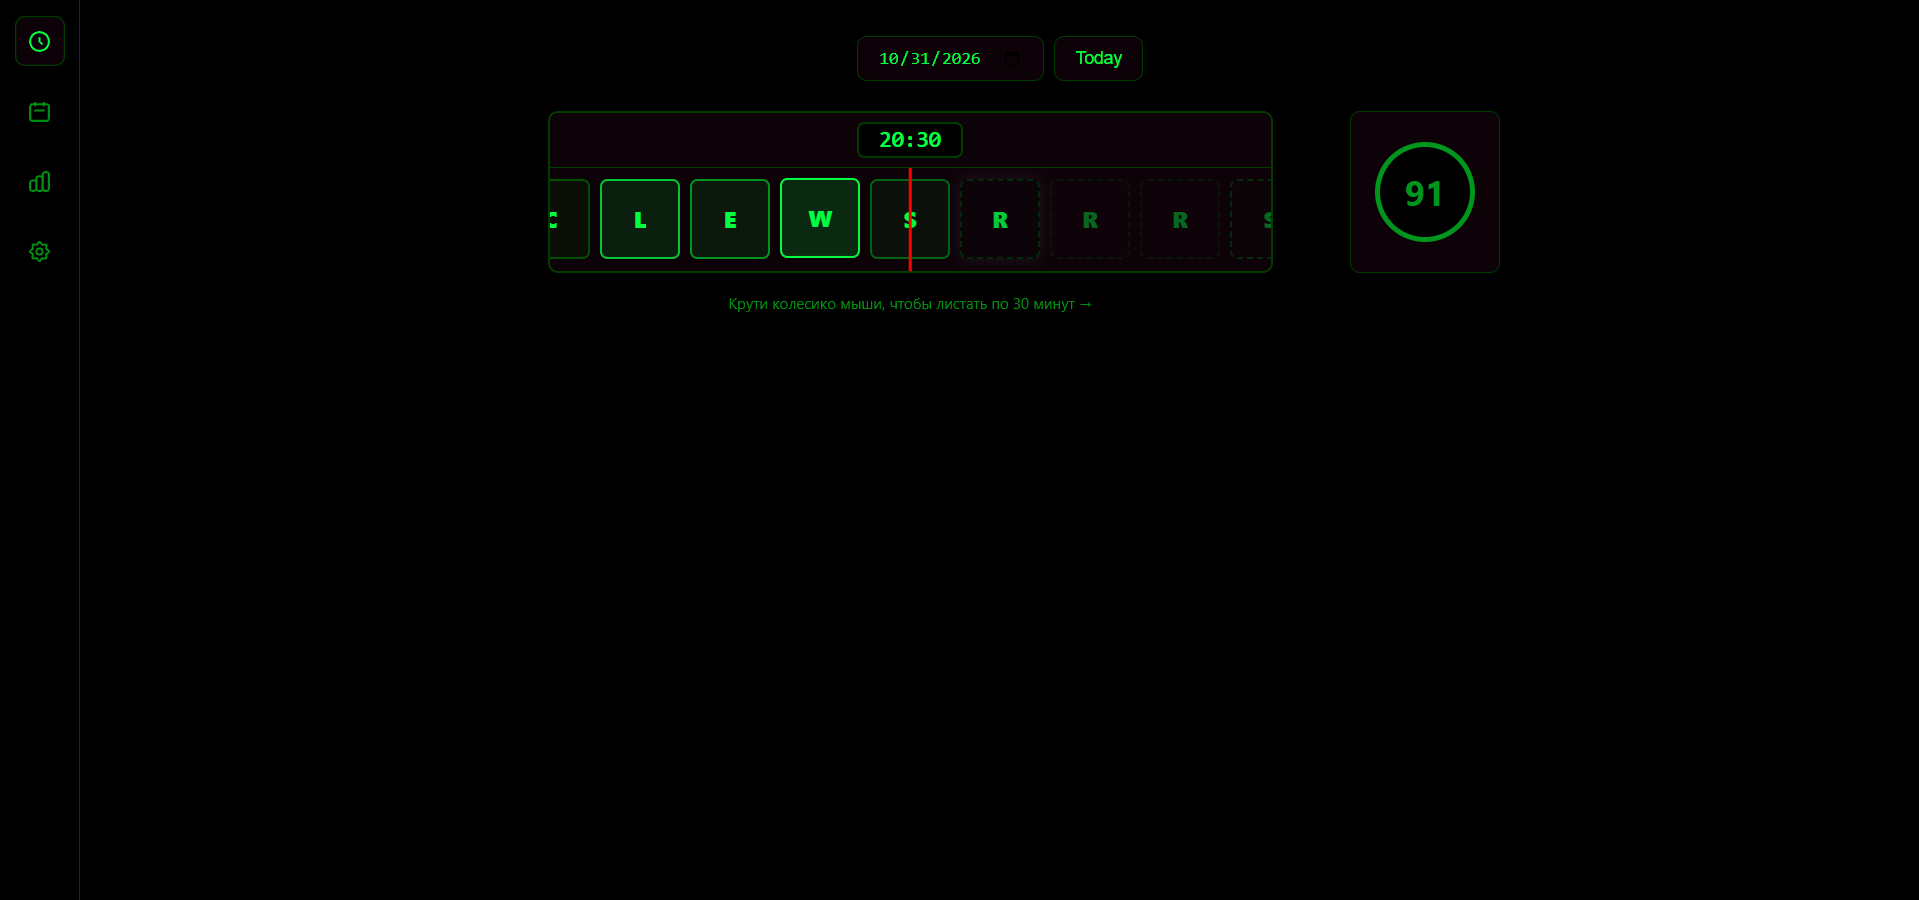
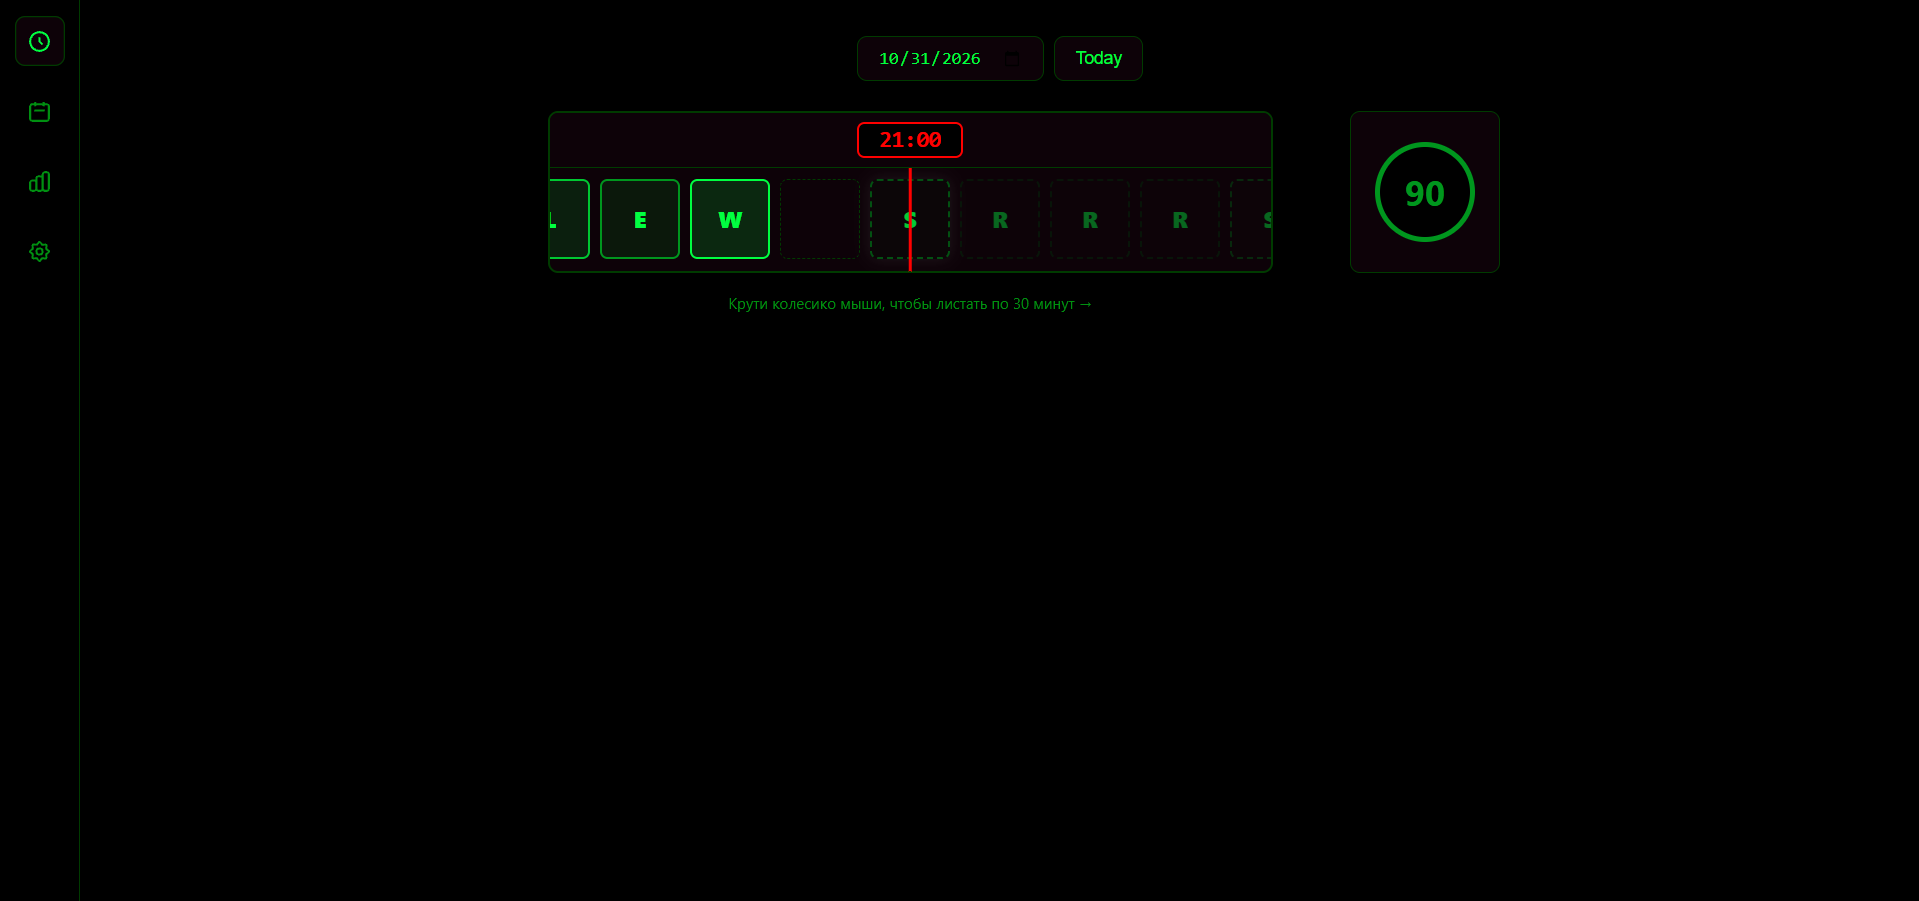
UPDATE README and add photos of my application.md

Changed region(s): [[0.3075, 0.1867, 0.4612, 0.3111], [0.4612, 0.1244, 0.4919, 0.1867], [0.7379, 0.1867, 0.7686, 0.2178]]

diff --git a/README.md b/README.md
@@ -9,9 +9,8 @@ Day Logger is a personal time-tracking application built around 30-minute time b
 
 ![alt text](src/image-1.png)
 
-![alt text](src/image-2.png)
-
 ![alt text](src/image-3.png)
+
 ---
 
 ## Key Features
